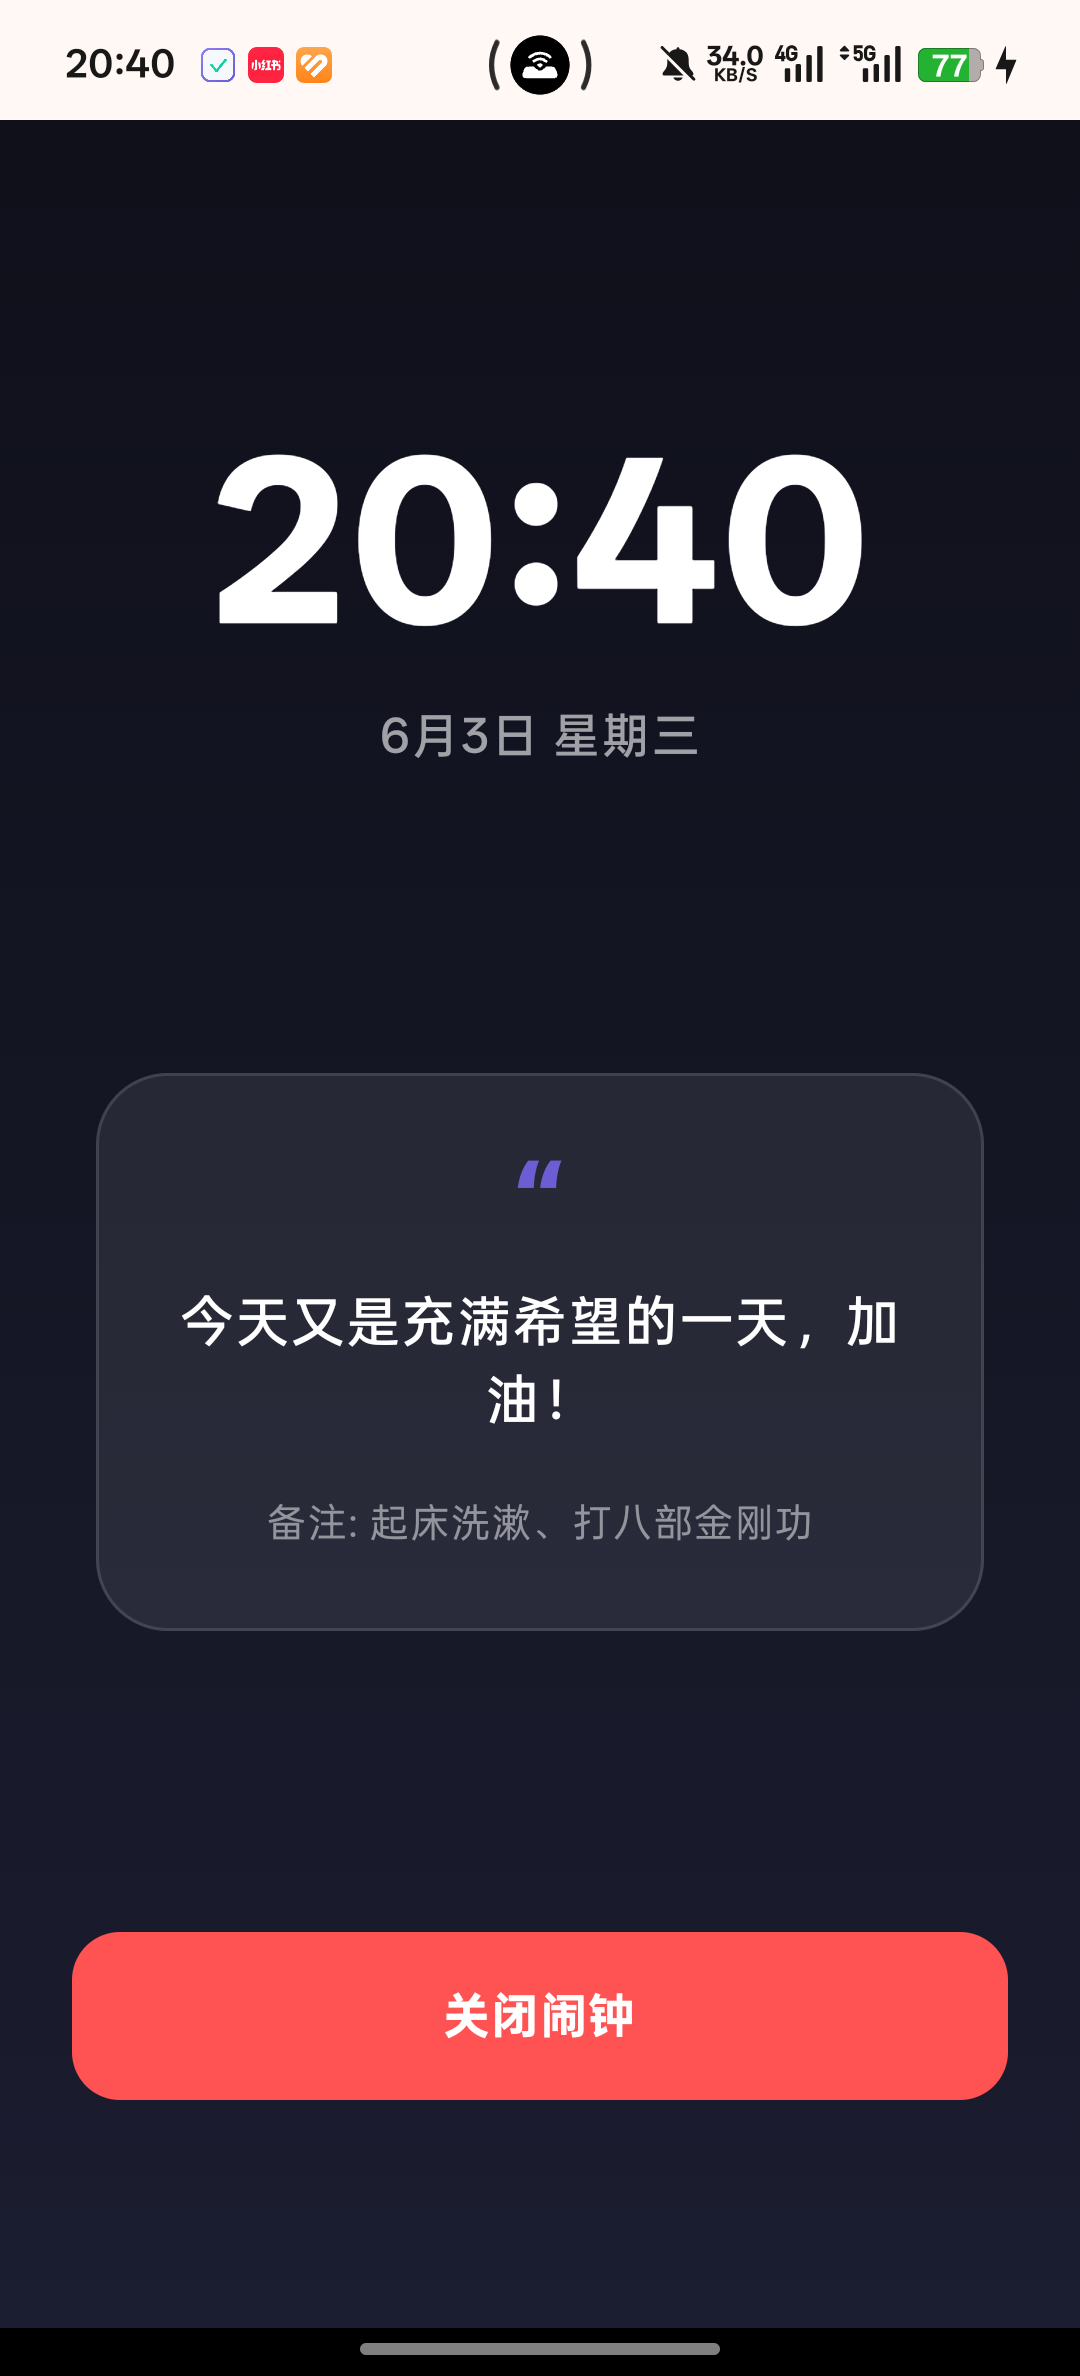
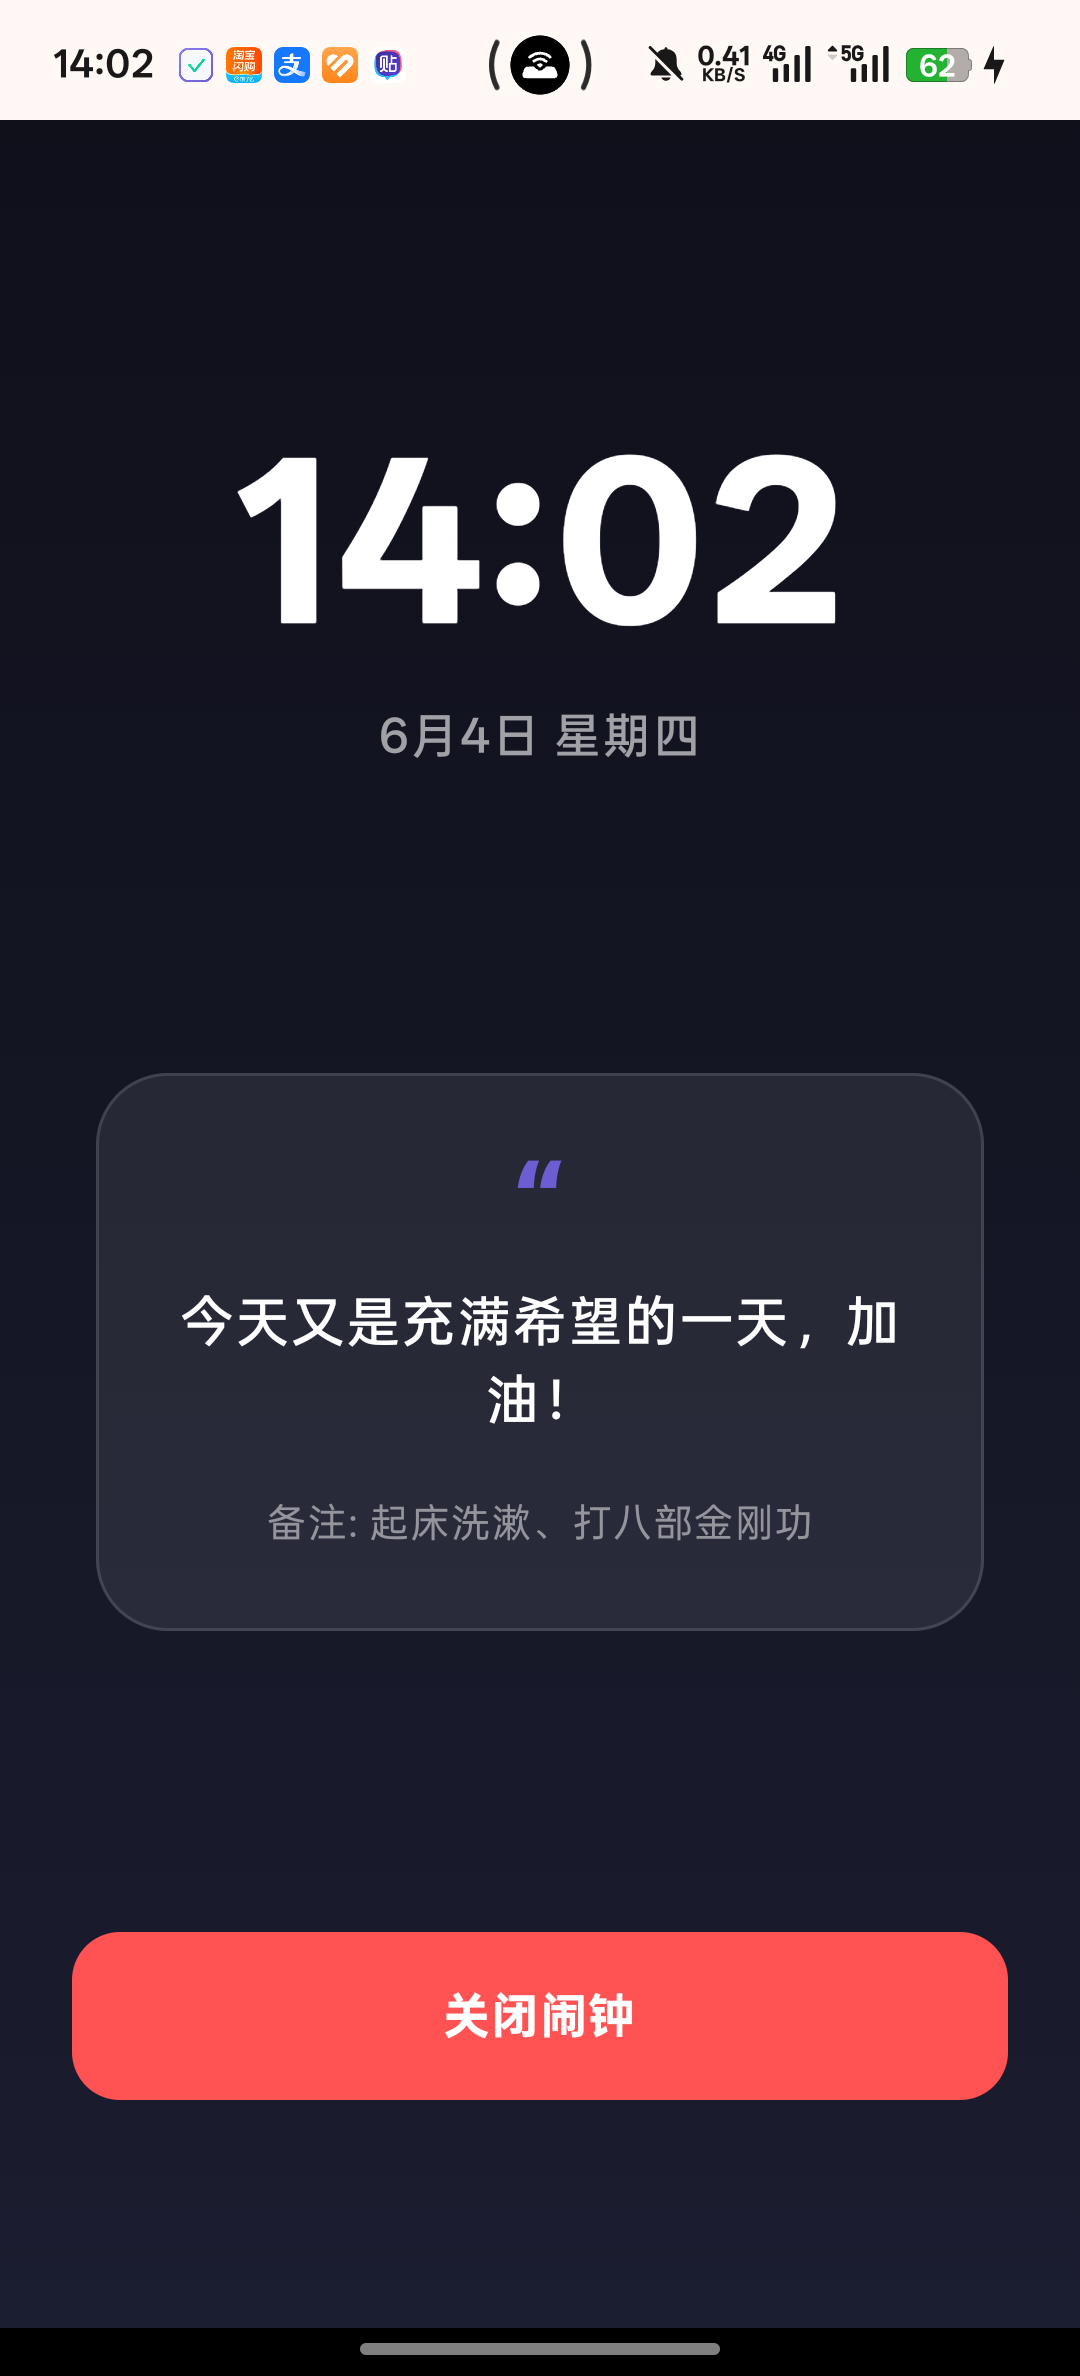
简化了作息提醒功能，取消闹铃和锁屏选中

Changed region(s): [[0.1833, 0.1869, 0.7944, 0.3426], [0.0611, 0.0, 0.3667, 0.0623], [0.6111, 0.0, 0.9472, 0.0311]]

diff --git a/app/src/main/java/com/pomodoroalert/ui/screens/ScheduleScreen.kt b/app/src/main/java/com/pomodoroalert/ui/screens/ScheduleScreen.kt
@@ -300,6 +300,111 @@ fun ScheduleScreen(
                             Spacer(modifier = Modifier.height(12.dp))
                             HorizontalDivider(color = Color(0xFFF1F1F5))
                             Spacer(modifier = Modifier.height(12.dp))
+
+                            // ── Enable Alarm Option ──
+                            Row(
+                                modifier = Modifier.fillMaxWidth(),
+                                verticalAlignment = Alignment.CenterVertically,
+                                horizontalArrangement = Arrangement.SpaceBetween
+                            ) {
+                                Column(modifier = Modifier.weight(1f)) {
+                                    Text(
+                                        text = "启用该时段闹铃",
+                                        fontWeight = FontWeight.SemiBold,
+                                        fontSize = 14.sp,
+                                        color = DarkBrand
+                                    )
+                                    Text(
+                                        text = "在此时间段是否触发闹铃和语音播报",
+                                        fontSize = 11.sp,
+                                        color = Color.Gray
+                                    )
+                                }
+                                Switch(
+                                    checked = draft.isEnabled,
+                                    onCheckedChange = { viewModel.updateDraftEnabled(draft.id, it) },
+                                    colors = SwitchDefaults.colors(
+                                        checkedThumbColor = Color.White,
+                                        checkedTrackColor = ActiveColor,
+                                        uncheckedThumbColor = Color.White,
+                                        uncheckedTrackColor = Color(0xFFE2E2EA)
+                                    )
+                                )
+                            }
+                            
+                            Spacer(modifier = Modifier.height(12.dp))
+                            HorizontalDivider(color = Color(0xFFF1F1F5))
+                            Spacer(modifier = Modifier.height(12.dp))
+
+                            // ── Play Ringtone Option ──
+                            Row(
+                                modifier = Modifier.fillMaxWidth(),
+                                verticalAlignment = Alignment.CenterVertically,
+                                horizontalArrangement = Arrangement.SpaceBetween
+                            ) {
+                                Column(modifier = Modifier.weight(1f)) {
+                                    Text(
+                                        text = "同时播放闹铃铃声",
+                                        fontWeight = FontWeight.SemiBold,
+                                        fontSize = 14.sp,
+                                        color = DarkBrand
+                                    )
+                                    Text(
+                                        text = "默认关闭（仅语音播报）。开启后将同时播放闹铃音乐",
+                                        fontSize = 11.sp,
+                                        color = Color.Gray
+                                    )
+                                }
+                                Switch(
+                                    checked = draft.ringtoneEnabled,
+                                    onCheckedChange = { viewModel.updateDraftRingtoneEnabled(draft.id, it) },
+                                    colors = SwitchDefaults.colors(
+                                        checkedThumbColor = Color.White,
+                                        checkedTrackColor = ActiveColor,
+                                        uncheckedThumbColor = Color.White,
+                                        uncheckedTrackColor = Color(0xFFE2E2EA)
+                                    )
+                                )
+                            }
+                            
+                            Spacer(modifier = Modifier.height(12.dp))
+                            HorizontalDivider(color = Color(0xFFF1F1F5))
+                            Spacer(modifier = Modifier.height(12.dp))
+
+                            // ── Lock Screen Setting Row ──
+                            Row(
+                                modifier = Modifier.fillMaxWidth(),
+                                verticalAlignment = Alignment.CenterVertically,
+                                horizontalArrangement = Arrangement.SpaceBetween
+                            ) {
+                                Column(modifier = Modifier.weight(1f)) {
+                                    Text(
+                                        text = "闹钟锁屏大屏提醒",
+                                        fontWeight = FontWeight.SemiBold,
+                                        fontSize = 14.sp,
+                                        color = DarkBrand
+                                    )
+                                    Text(
+                                        text = "响铃时强制亮屏并弹出全屏闹铃界面",
+                                        fontSize = 11.sp,
+                                        color = Color.Gray
+                                    )
+                                }
+                                Switch(
+                                    checked = draft.lockScreenEnabled,
+                                    onCheckedChange = { viewModel.updateDraftLockScreenEnabled(draft.id, it) },
+                                    colors = SwitchDefaults.colors(
+                                        checkedThumbColor = Color.White,
+                                        checkedTrackColor = ActiveColor,
+                                        uncheckedThumbColor = Color.White,
+                                        uncheckedTrackColor = Color(0xFFE2E2EA)
+                                    )
+                                )
+                            }
+                            
+                            Spacer(modifier = Modifier.height(12.dp))
+                            HorizontalDivider(color = Color(0xFFF1F1F5))
+                            Spacer(modifier = Modifier.height(12.dp))
                             
                             Text("语音提醒设置", fontSize = 12.sp, color = Color.Gray)
                             Spacer(modifier = Modifier.height(8.dp))

diff --git a/app/src/main/java/com/pomodoroalert/ui/viewmodel/ScheduleViewModel.kt b/app/src/main/java/com/pomodoroalert/ui/viewmodel/ScheduleViewModel.kt
@@ -26,7 +26,10 @@ data class ScheduleDraft(
     val voiceMode: String = "TTS",
     val voiceText: String = "",
     val audioUri: String? = null,
-    val audioFileName: String? = null
+    val audioFileName: String? = null,
+    val lockScreenEnabled: Boolean = false,
+    val isEnabled: Boolean = true,
+    val ringtoneEnabled: Boolean = false
 )
 
 @HiltViewModel
@@ -125,15 +128,19 @@ class ScheduleViewModel @Inject constructor(
                     hour = draft.startHour,
                     minute = draft.startMinute,
                     remark = draft.content,
-                    isEnabled = true,
+                    isEnabled = draft.isEnabled,
                     repeatDays = 127, // Repeat every day
                     alarmType = "SCHEDULE",
                     voiceMode = draft.voiceMode,
                     voiceText = draft.voiceText,
-                    audioUri = draft.audioUri
+                    audioUri = draft.audioUri,
+                    lockScreenEnabled = draft.lockScreenEnabled,
+                    ringtoneEnabled = draft.ringtoneEnabled
                 )
                 alarmDao.insert(alarm)
-                AlarmScheduler.scheduleAlarm(context, alarm)
+                if (alarm.isEnabled) {
+                    AlarmScheduler.scheduleAlarm(context, alarm)
+                }
             }
 
             // 4. Save raw markdown text to SharedPreferences
@@ -183,6 +190,9 @@ class ScheduleViewModel @Inject constructor(
                 var voiceText = currentMatch?.voiceText ?: defaultVoiceText
                 var audioUri = currentMatch?.audioUri
                 var audioFileName = currentMatch?.audioFileName
+                var lockScreenEnabled = currentMatch?.lockScreenEnabled ?: false
+                var isEnabled = currentMatch?.isEnabled ?: true
+                var ringtoneEnabled = currentMatch?.ringtoneEnabled ?: false
                 
                 // 2. If not found in memory drafts and useSavedCustomizations is true, try to find in database saved alarms
                 if (currentMatch == null && useSavedCustomizations) {
@@ -191,6 +201,9 @@ class ScheduleViewModel @Inject constructor(
                         voiceMode = existing.voiceMode
                         voiceText = existing.voiceText.ifBlank { defaultVoiceText }
                         audioUri = existing.audioUri
+                        lockScreenEnabled = existing.lockScreenEnabled
+                        isEnabled = existing.isEnabled
+                        ringtoneEnabled = existing.ringtoneEnabled
                         if (audioUri != null && audioUri.contains("|")) {
                             audioFileName = audioUri.split("|").getOrNull(1)
                         }
@@ -207,7 +220,10 @@ class ScheduleViewModel @Inject constructor(
                         voiceMode = voiceMode,
                         voiceText = voiceText,
                         audioUri = audioUri,
-                        audioFileName = audioFileName
+                        audioFileName = audioFileName,
+                        lockScreenEnabled = lockScreenEnabled,
+                        isEnabled = isEnabled,
+                        ringtoneEnabled = ringtoneEnabled
                     )
                 )
             }
@@ -295,15 +311,19 @@ class ScheduleViewModel @Inject constructor(
                         hour = draft.startHour,
                         minute = draft.startMinute,
                         remark = draft.content,
-                        isEnabled = true,
+                        isEnabled = draft.isEnabled,
                         repeatDays = 127, // Repeat every day of week (Monday to Sunday)
                         alarmType = "SCHEDULE",
                         voiceMode = draft.voiceMode,
                         voiceText = draft.voiceText,
-                        audioUri = draft.audioUri
+                        audioUri = draft.audioUri,
+                        lockScreenEnabled = draft.lockScreenEnabled,
+                        ringtoneEnabled = draft.ringtoneEnabled
                     )
                     alarmDao.insert(alarm)
-                    AlarmScheduler.scheduleAlarm(context, alarm)
+                    if (alarm.isEnabled) {
+                        AlarmScheduler.scheduleAlarm(context, alarm)
+                    }
                 }
 
                 // 4. Save raw markdown text to SharedPreferences
@@ -340,8 +360,44 @@ class ScheduleViewModel @Inject constructor(
             if (matchingAlarm.voiceText != draft.voiceText) return true
             if (matchingAlarm.audioUri != draft.audioUri) return true
             if (matchingAlarm.remark != draft.content) return true
+            if (matchingAlarm.lockScreenEnabled != draft.lockScreenEnabled) return true
+            if (matchingAlarm.isEnabled != draft.isEnabled) return true
+            if (matchingAlarm.ringtoneEnabled != draft.ringtoneEnabled) return true
         }
 
         return false
+    }
+
+    fun updateDraftLockScreenEnabled(draftId: String, enabled: Boolean) {
+        _drafts.value = _drafts.value.map {
+            if (it.id == draftId) {
+                it.copy(lockScreenEnabled = enabled)
+            } else {
+                it
+            }
+        }
+        triggerImmediateAutoSave()
+    }
+
+    fun updateDraftEnabled(draftId: String, enabled: Boolean) {
+        _drafts.value = _drafts.value.map {
+            if (it.id == draftId) {
+                it.copy(isEnabled = enabled)
+            } else {
+                it
+            }
+        }
+        triggerImmediateAutoSave()
+    }
+
+    fun updateDraftRingtoneEnabled(draftId: String, enabled: Boolean) {
+        _drafts.value = _drafts.value.map {
+            if (it.id == draftId) {
+                it.copy(ringtoneEnabled = enabled)
+            } else {
+                it
+            }
+        }
+        triggerImmediateAutoSave()
     }
 }

diff --git a/app/src/main/java/com/pomodoroalert/ui/screens/AlarmScreen.kt b/app/src/main/java/com/pomodoroalert/ui/screens/AlarmScreen.kt
@@ -240,6 +240,9 @@ fun AlarmScreen(
                             onLockScreenToggle = { checked ->
                                 viewModel.updateAlarm(alarm.copy(lockScreenEnabled = checked))
                             },
+                            onRingtoneEnabledToggle = { checked ->
+                                viewModel.updateAlarm(alarm.copy(ringtoneEnabled = checked))
+                            },
                             onEdit = { editingAlarm = alarm },
                             onDelete = { viewModel.deleteAlarm(alarm) },
                             onTimeClick = {
@@ -310,6 +313,7 @@ private fun AlarmCard(
     builtInRingtone: String,
     onToggle: () -> Unit,
     onLockScreenToggle: (Boolean) -> Unit,
+    onRingtoneEnabledToggle: (Boolean) -> Unit,
     onEdit: () -> Unit,
     onDelete: () -> Unit,
     onTimeClick: () -> Unit,
@@ -441,6 +445,30 @@ private fun AlarmCard(
                     Switch(
                         checked = alarm.lockScreenEnabled,
                         onCheckedChange = { onLockScreenToggle(it) },
+                        colors = SwitchDefaults.colors(
+                            checkedThumbColor = Color.White,
+                            checkedTrackColor = ActiveColor,
+                            uncheckedThumbColor = Color.White,
+                            uncheckedTrackColor = Color(0xFFE2E2EA)
+                        )
+                    )
+                }
+
+                Spacer(modifier = Modifier.height(6.dp))
+
+                Row(
+                    modifier = Modifier.fillMaxWidth(),
+                    verticalAlignment = Alignment.CenterVertically,
+                    horizontalArrangement = Arrangement.SpaceBetween
+                ) {
+                    Text(
+                        text = "同时播放闹铃铃声",
+                        fontSize = 14.sp,
+                        color = if (alarm.isEnabled) DarkBrand else Color(0xFF808191).copy(alpha = 0.6f)
+                    )
+                    Switch(
+                        checked = alarm.ringtoneEnabled,
+                        onCheckedChange = { onRingtoneEnabledToggle(it) },
                         colors = SwitchDefaults.colors(
                             checkedThumbColor = Color.White,
                             checkedTrackColor = ActiveColor,

diff --git a/app/src/main/java/com/pomodoroalert/service/AlarmService.kt b/app/src/main/java/com/pomodoroalert/service/AlarmService.kt
@@ -76,6 +76,7 @@ class AlarmService : Service() {
         val voiceMode = intent?.getStringExtra("voiceMode") ?: "NONE"
         val voiceText = intent?.getStringExtra("voiceText") ?: ""
         val audioUri = intent?.getStringExtra("audioUri")
+        val ringtoneEnabled = intent?.getBooleanExtra("ringtoneEnabled", true) ?: true
 
         // 1. 立即在前台启动一个静音低优先级的常驻服务通知，以满足后台限制
         val serviceNotification = NotificationCompat.Builder(this, "timer_service_channel")
@@ -182,15 +183,19 @@ class AlarmService : Service() {
                 }
             }
 
-            playAlarmRingtoneAsync(ringtoneUri, voiceMode, audioUri)
+            playAlarmRingtoneAsync(ringtoneUri, voiceMode, audioUri, ringtoneEnabled)
         }
 
         return START_STICKY
     }
 
-    private suspend fun playAlarmRingtoneAsync(customUri: String?, voiceMode: String, audioUri: String?) {
+    private suspend fun playAlarmRingtoneAsync(customUri: String?, voiceMode: String, audioUri: String?, ringtoneEnabled: Boolean) {
         if (voiceMode == "AUDIO" && !audioUri.isNullOrBlank()) {
             playLocalRingtoneAsync(audioUri)
+            return
+        }
+
+        if (!ringtoneEnabled) {
             return
         }
 

diff --git a/app/src/main/java/com/pomodoroalert/data/AlarmEntity.kt b/app/src/main/java/com/pomodoroalert/data/AlarmEntity.kt
@@ -25,5 +25,7 @@ data class AlarmEntity(
     /** TTS 朗读文字 */
     val voiceText: String = "",
     /** 用户自定义语音文件 URI */
-    val audioUri: String? = null
+    val audioUri: String? = null,
+    /** 是否启用闹铃音乐（如果为 false 则仅语音播报，不播放铃声） */
+    val ringtoneEnabled: Boolean = true
 )

diff --git a/app/src/main/java/com/pomodoroalert/data/AppDatabase.kt b/app/src/main/java/com/pomodoroalert/data/AppDatabase.kt
@@ -5,7 +5,7 @@ import androidx.room.RoomDatabase
 
 @Database(
     entities = [TaskEntity::class, AlarmEntity::class],
-    version = 7,
+    version = 8,
     exportSchema = false
 )
 abstract class AppDatabase : RoomDatabase() {

diff --git a/app/src/main/java/com/pomodoroalert/service/AlarmScheduler.kt b/app/src/main/java/com/pomodoroalert/service/AlarmScheduler.kt
@@ -23,6 +23,7 @@ object AlarmScheduler {
             putExtra("alarmType", alarm.alarmType)
             putExtra("voiceMode", alarm.voiceMode)
             putExtra("voiceText", alarm.voiceText)
+            putExtra("ringtoneEnabled", alarm.ringtoneEnabled)
             alarm.audioUri?.let { putExtra("audioUri", it) }
         }
         val requestCode = alarm.alarmId.hashCode() and 0x7FFFFFFF